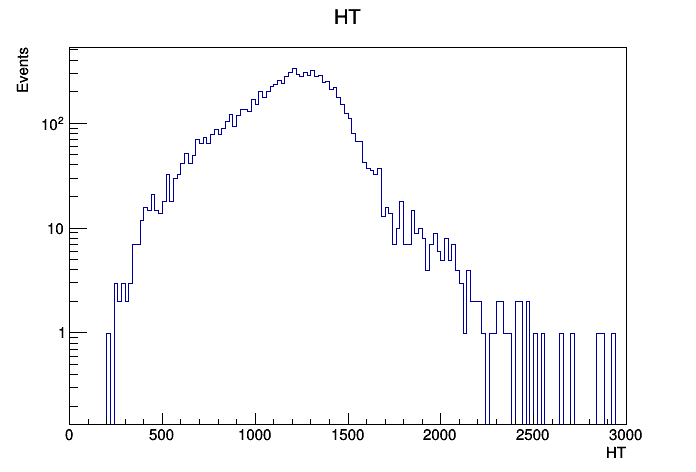
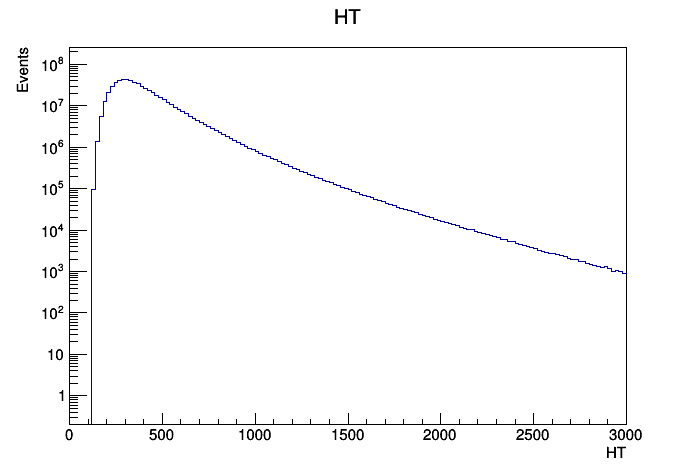
Test

diff --git a/stackPlotter.py b/stackPlotter.py
@@ -1,15 +1,16 @@
 import os, argparse, math, ROOT
 ROOT.gROOT.SetBatch(True)
 path = 'root-test-files'
-files = ['QCD.root', 'TT.root', 'signal_1500_600.root']
+files = ['QCD.root', 'TT.root']
 colors = [2, 3, 4]
 
 
 ROOT.gStyle.SetPalette(ROOT.kOcean)
 
-file1 = ROOT.TFile.Open('root-test-files/signal_1500_600.root', "READ")
+file1 = ROOT.TFile.Open('{}/{}'.format(path, files[0]), "READ")
 param_list = [key.GetName() for key in file1.GetListOfKeys()]
 ROOT.TFile.Close(file1)
+param_list = ['HT']
 
 for param in param_list:
 	h_stack = ROOT.THStack(param, "{};{};Events".format(param, param))
@@ -27,5 +28,7 @@ for param in param_list:
 		continue
 	c1 = ROOT.TCanvas()
 	ROOT.gPad.SetLogy()
+	ROOT.THStack.SetMinimum(h_stack, 1)	
+	ROOT.THStack.SetMaximum(h_stack, 10**8)
 	h_stack.Draw('HIST')
 	c1.SaveAs('plots/{}.png'.format(param))
